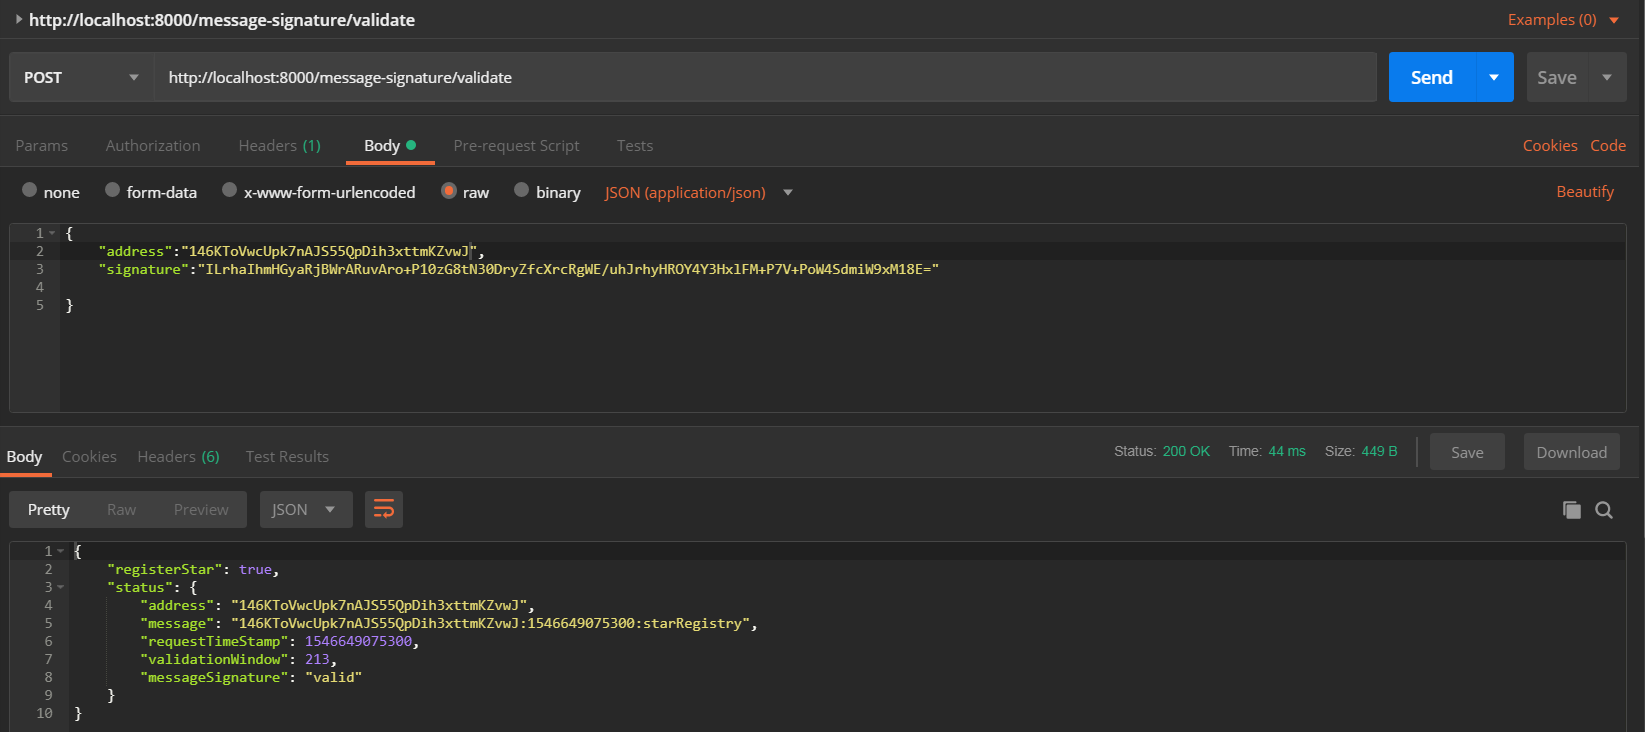
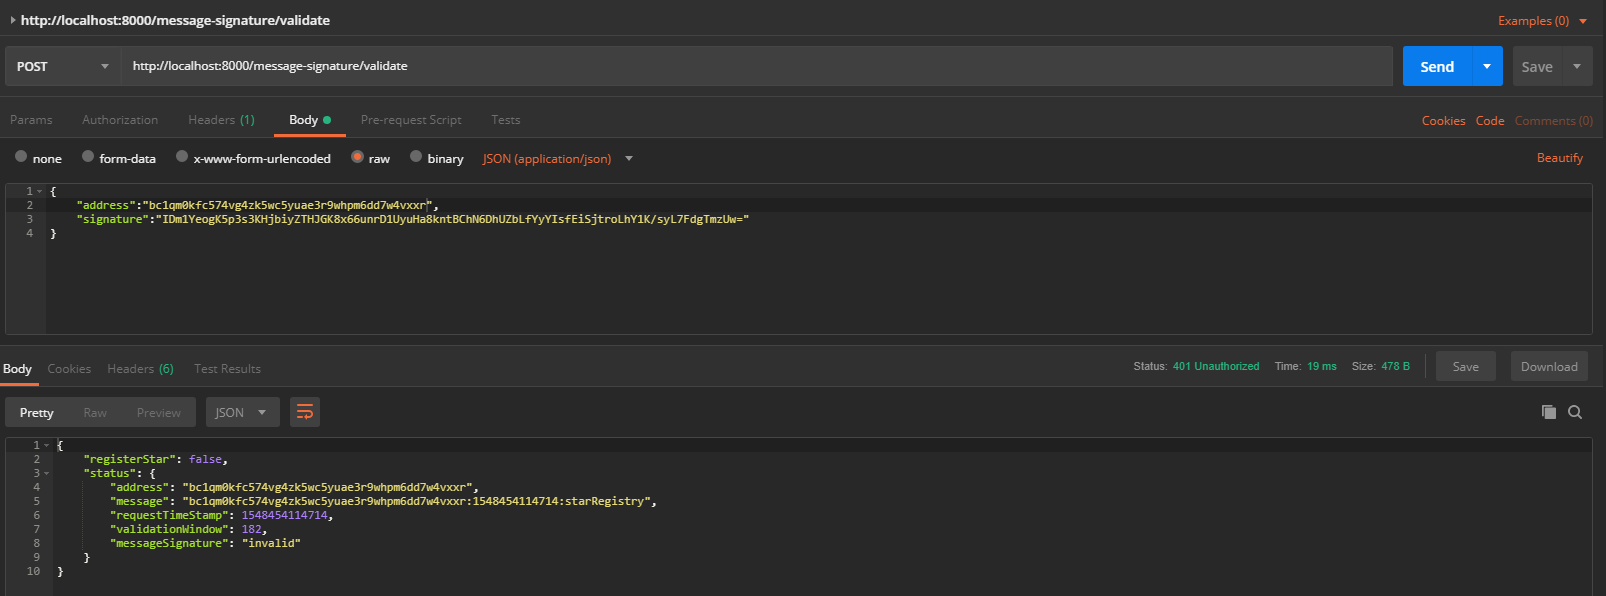
Ajuste Readme.md

diff --git a/README.md b/README.md
@@ -44,14 +44,26 @@ http://localhost:8000/block/0
 
 **URL**: ```http://localhost:8000/requestValidation```
 
+**Required Parameters**: ```{ "address:" "bc1qm0kfc574vg4zk5wc5yuae3r9whpm6dd7w4vxxr" } ```
 
 
-![Alt text](https://github.com/wleandrooliveira/private_blockchain_rest_api/blob/master/src/images/getblock_genesis.PNG)
+![Alt text](https://github.com/wleandrooliveira/private_blockchain_rest_api/blob/master/src/images/requestValidadtion.PNG)
 
 
-**Method**: GET
+**Method**: POST
 
-**URL**: `/block/:blockHeigh_nonexistentt`
+**URL**: ```http://localhost:8000/message-signature/validate```
+
+**Required Parameters**:
+```
+{
+	"address":"bc1qm0kfc574vg4zk5wc5yuae3r9whpm6dd7w4vxxr",
[1 lines of base64/hex data omitted]
+}
+```
+![Alt text](https://github.com/wleandrooliveira/private_blockchain_rest_api/blob/master/src/images/message_signature.PNG)
+
+![Alt text](https://github.com/wleandrooliveira/private_blockchain_rest_api/blob/master/src/images/message_signature.PNG)
 
 Example:
 ```
